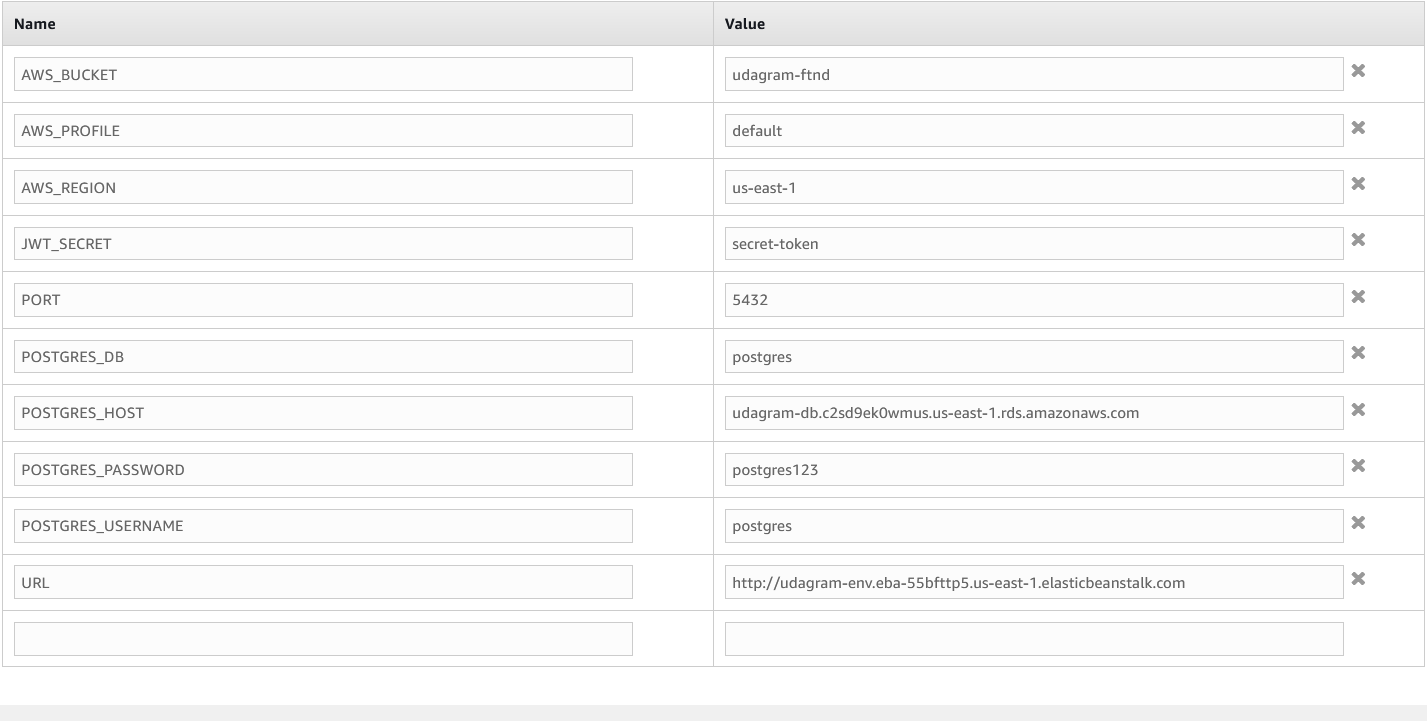
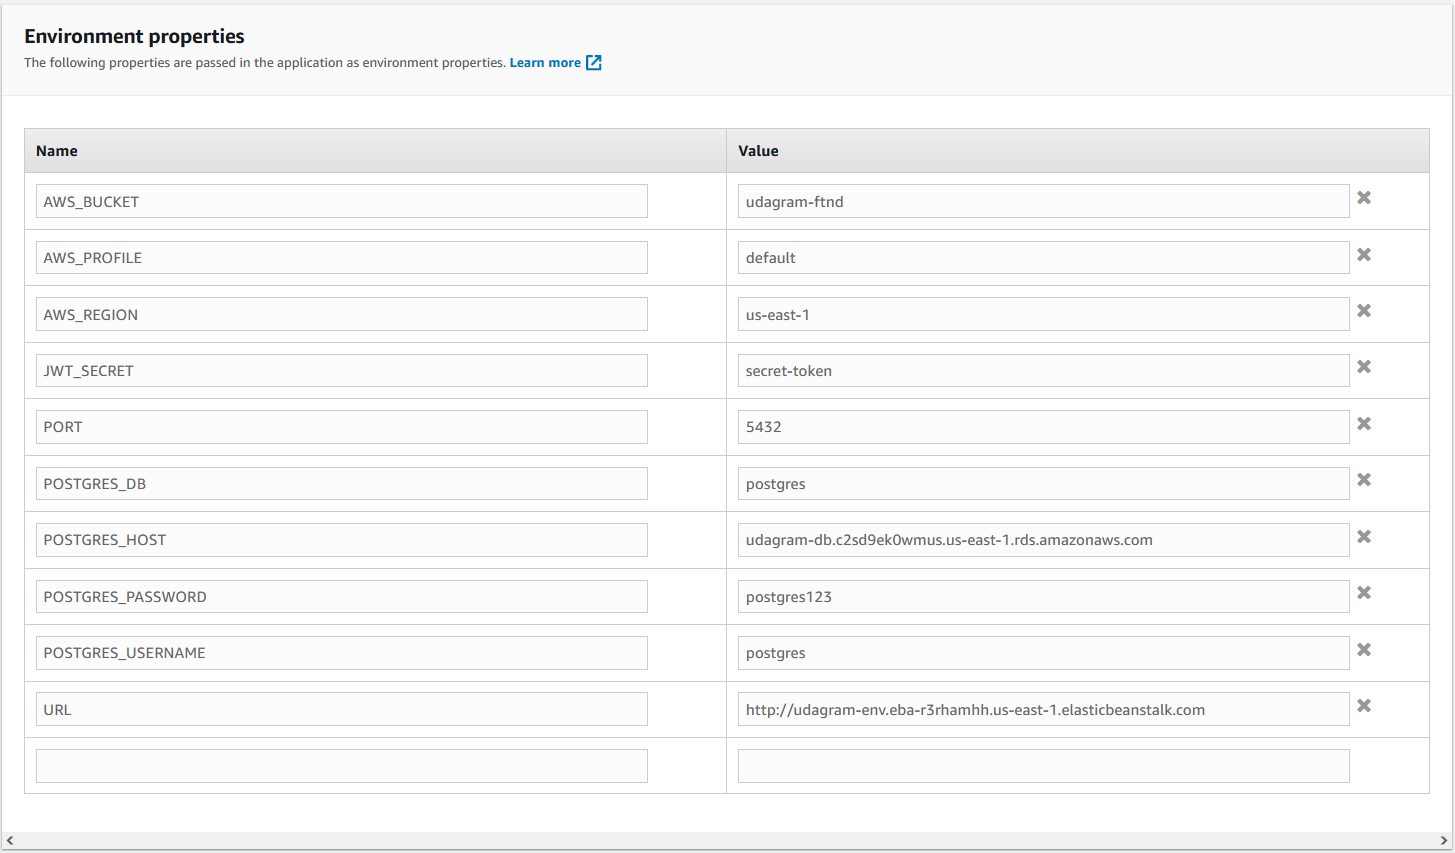
up

Changed region(s): [[0.0, 0.0, 1.0, 0.9459], [0.0, 0.9154, 1.0, 1.0], [0.925, 0.5492, 0.9559, 0.5798]]

diff --git a/udagram-frontend/src/environments/environment.ts b/udagram-frontend/src/environments/environment.ts
@@ -5,7 +5,7 @@
 export const environment = {
   production: false,
   appName: "Udagram",
-  apiHost: `http://udagram-env.eba-r3rhamhh.us-east-1.elasticbeanstalk.com/api/v0`,
+  apiHost: `${process.env.URL}/api/v0`,
 };
 
 /*

diff --git a/udagram-frontend/src/environments/environment.prod.ts b/udagram-frontend/src/environments/environment.prod.ts
@@ -5,7 +5,7 @@
 export const environment = {
   production: true,
   appName: "Udagram",
-  apiHost: `http://udagram-env.eba-r3rhamhh.us-east-1.elasticbeanstalk.com/api/v0`,
+  apiHost: `${process.env.URL}/api/v0`,
 };
 
 /*
